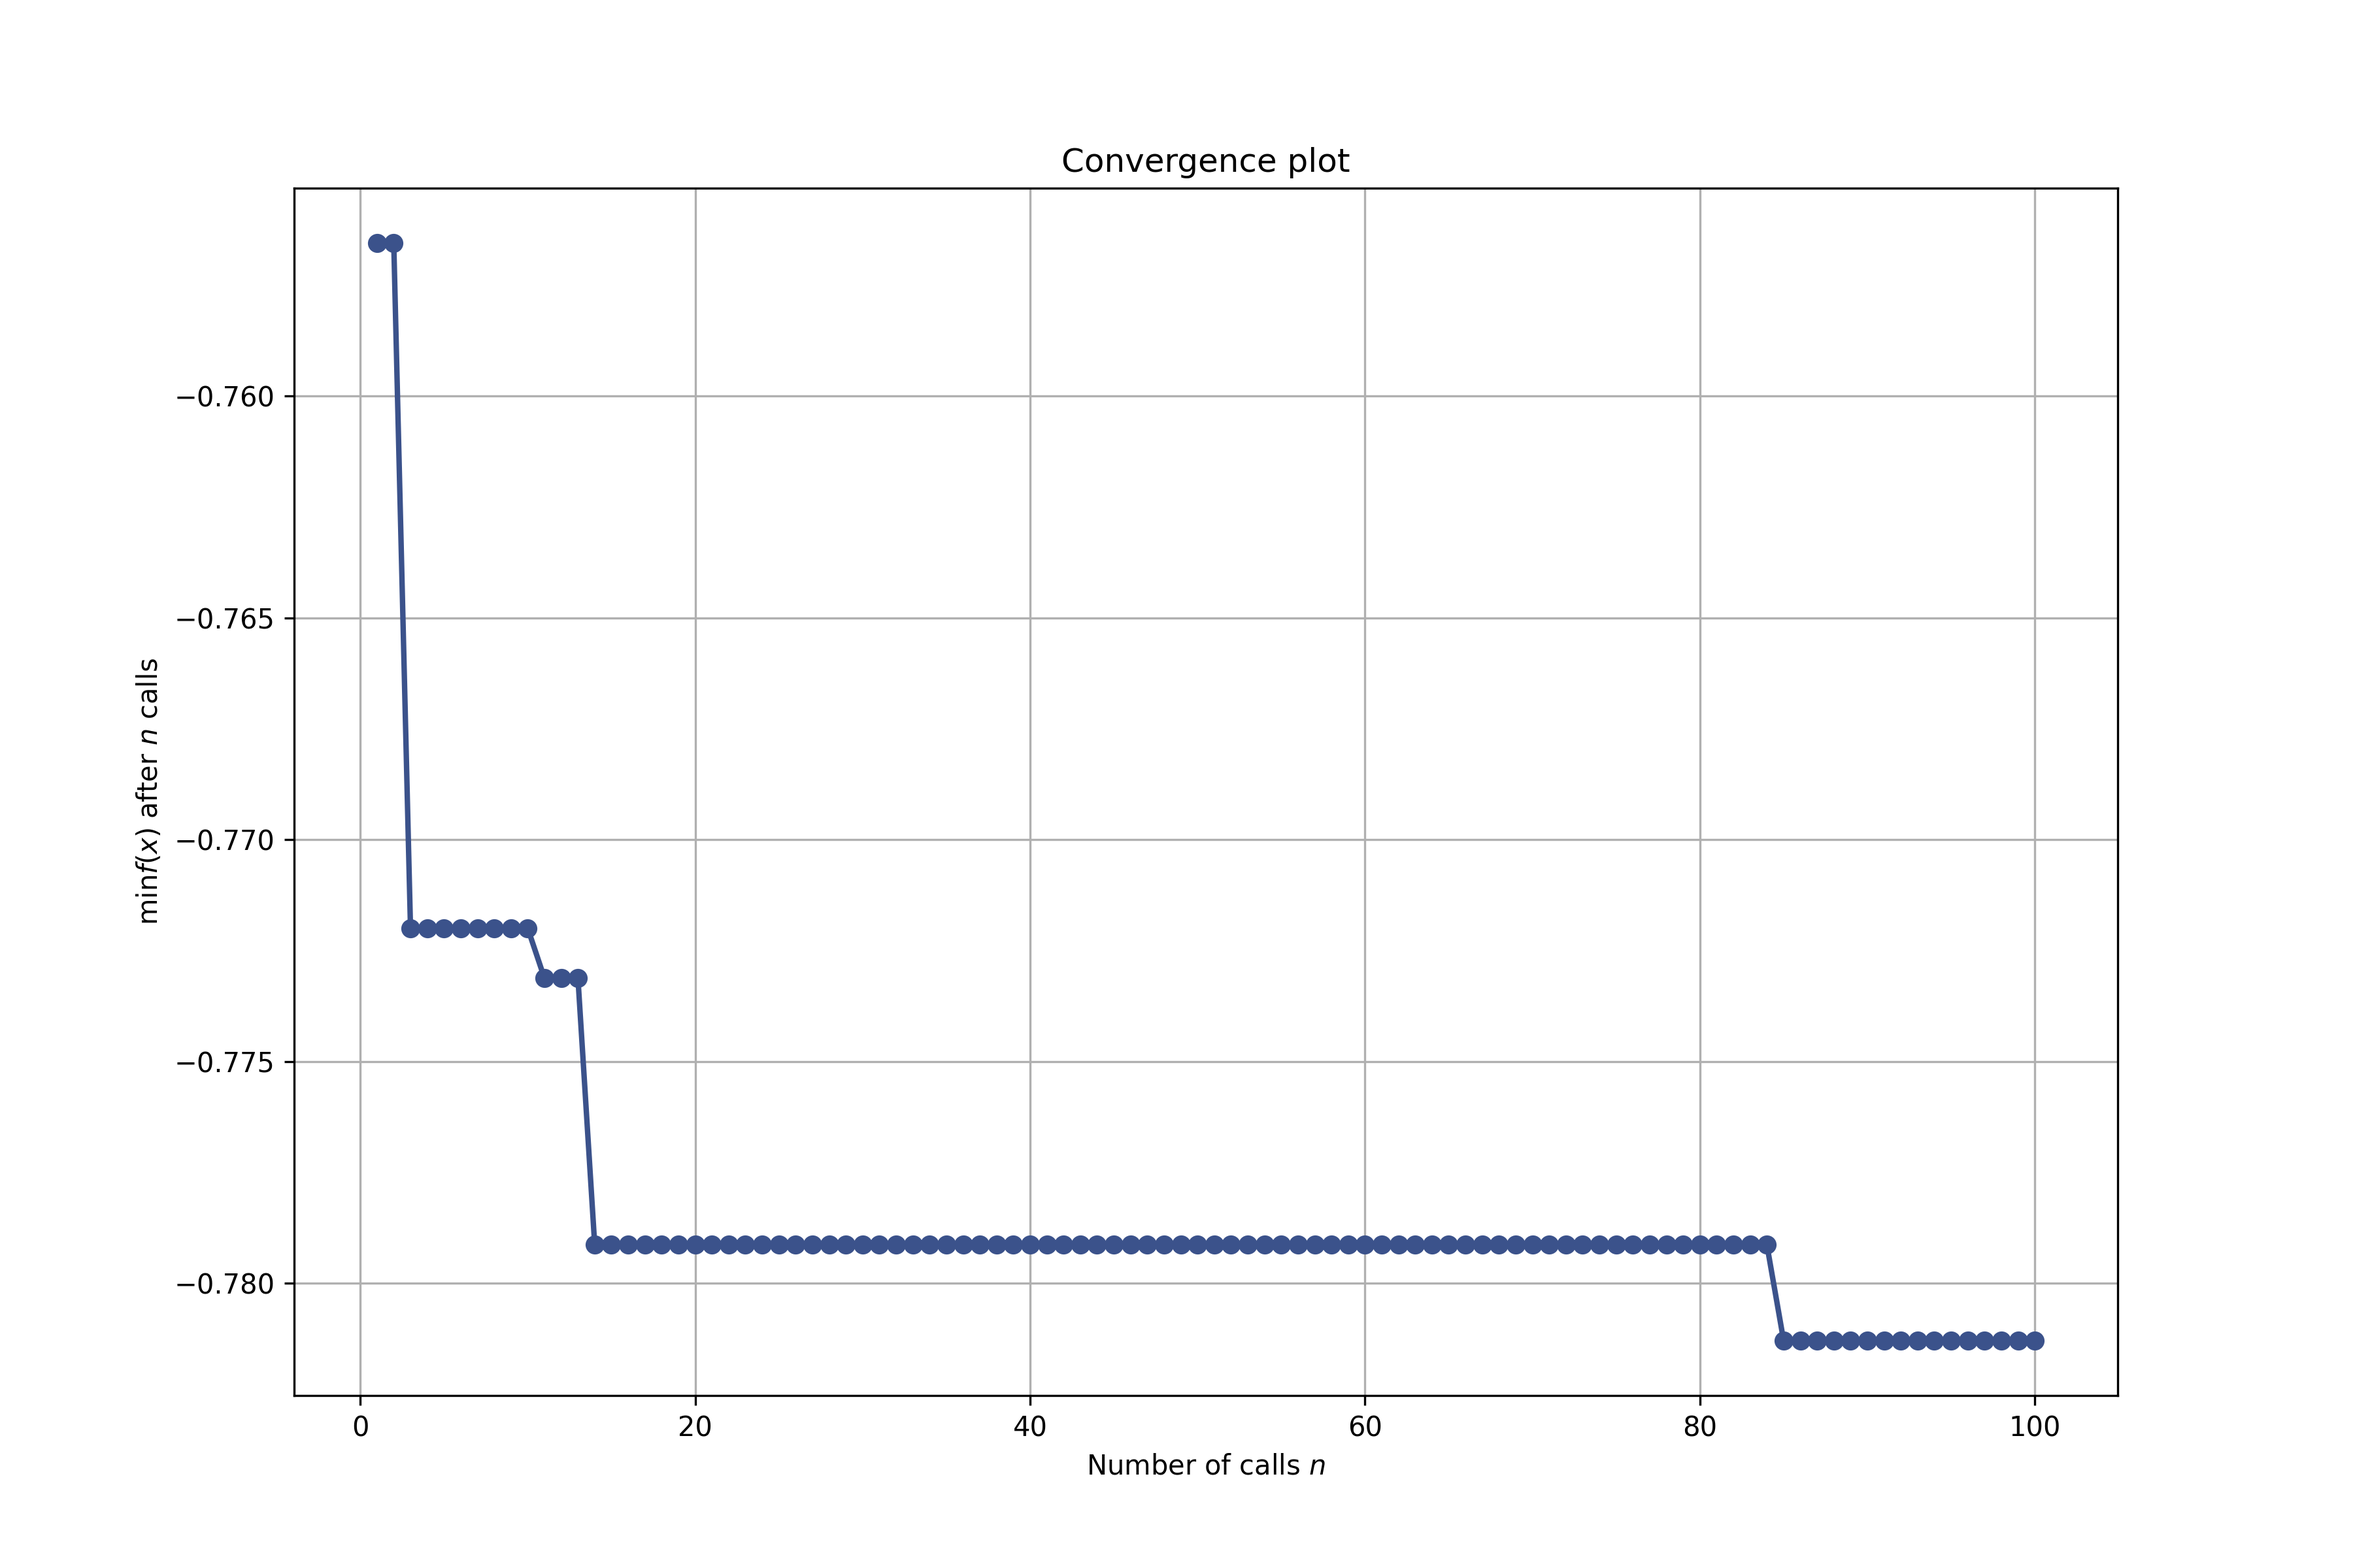
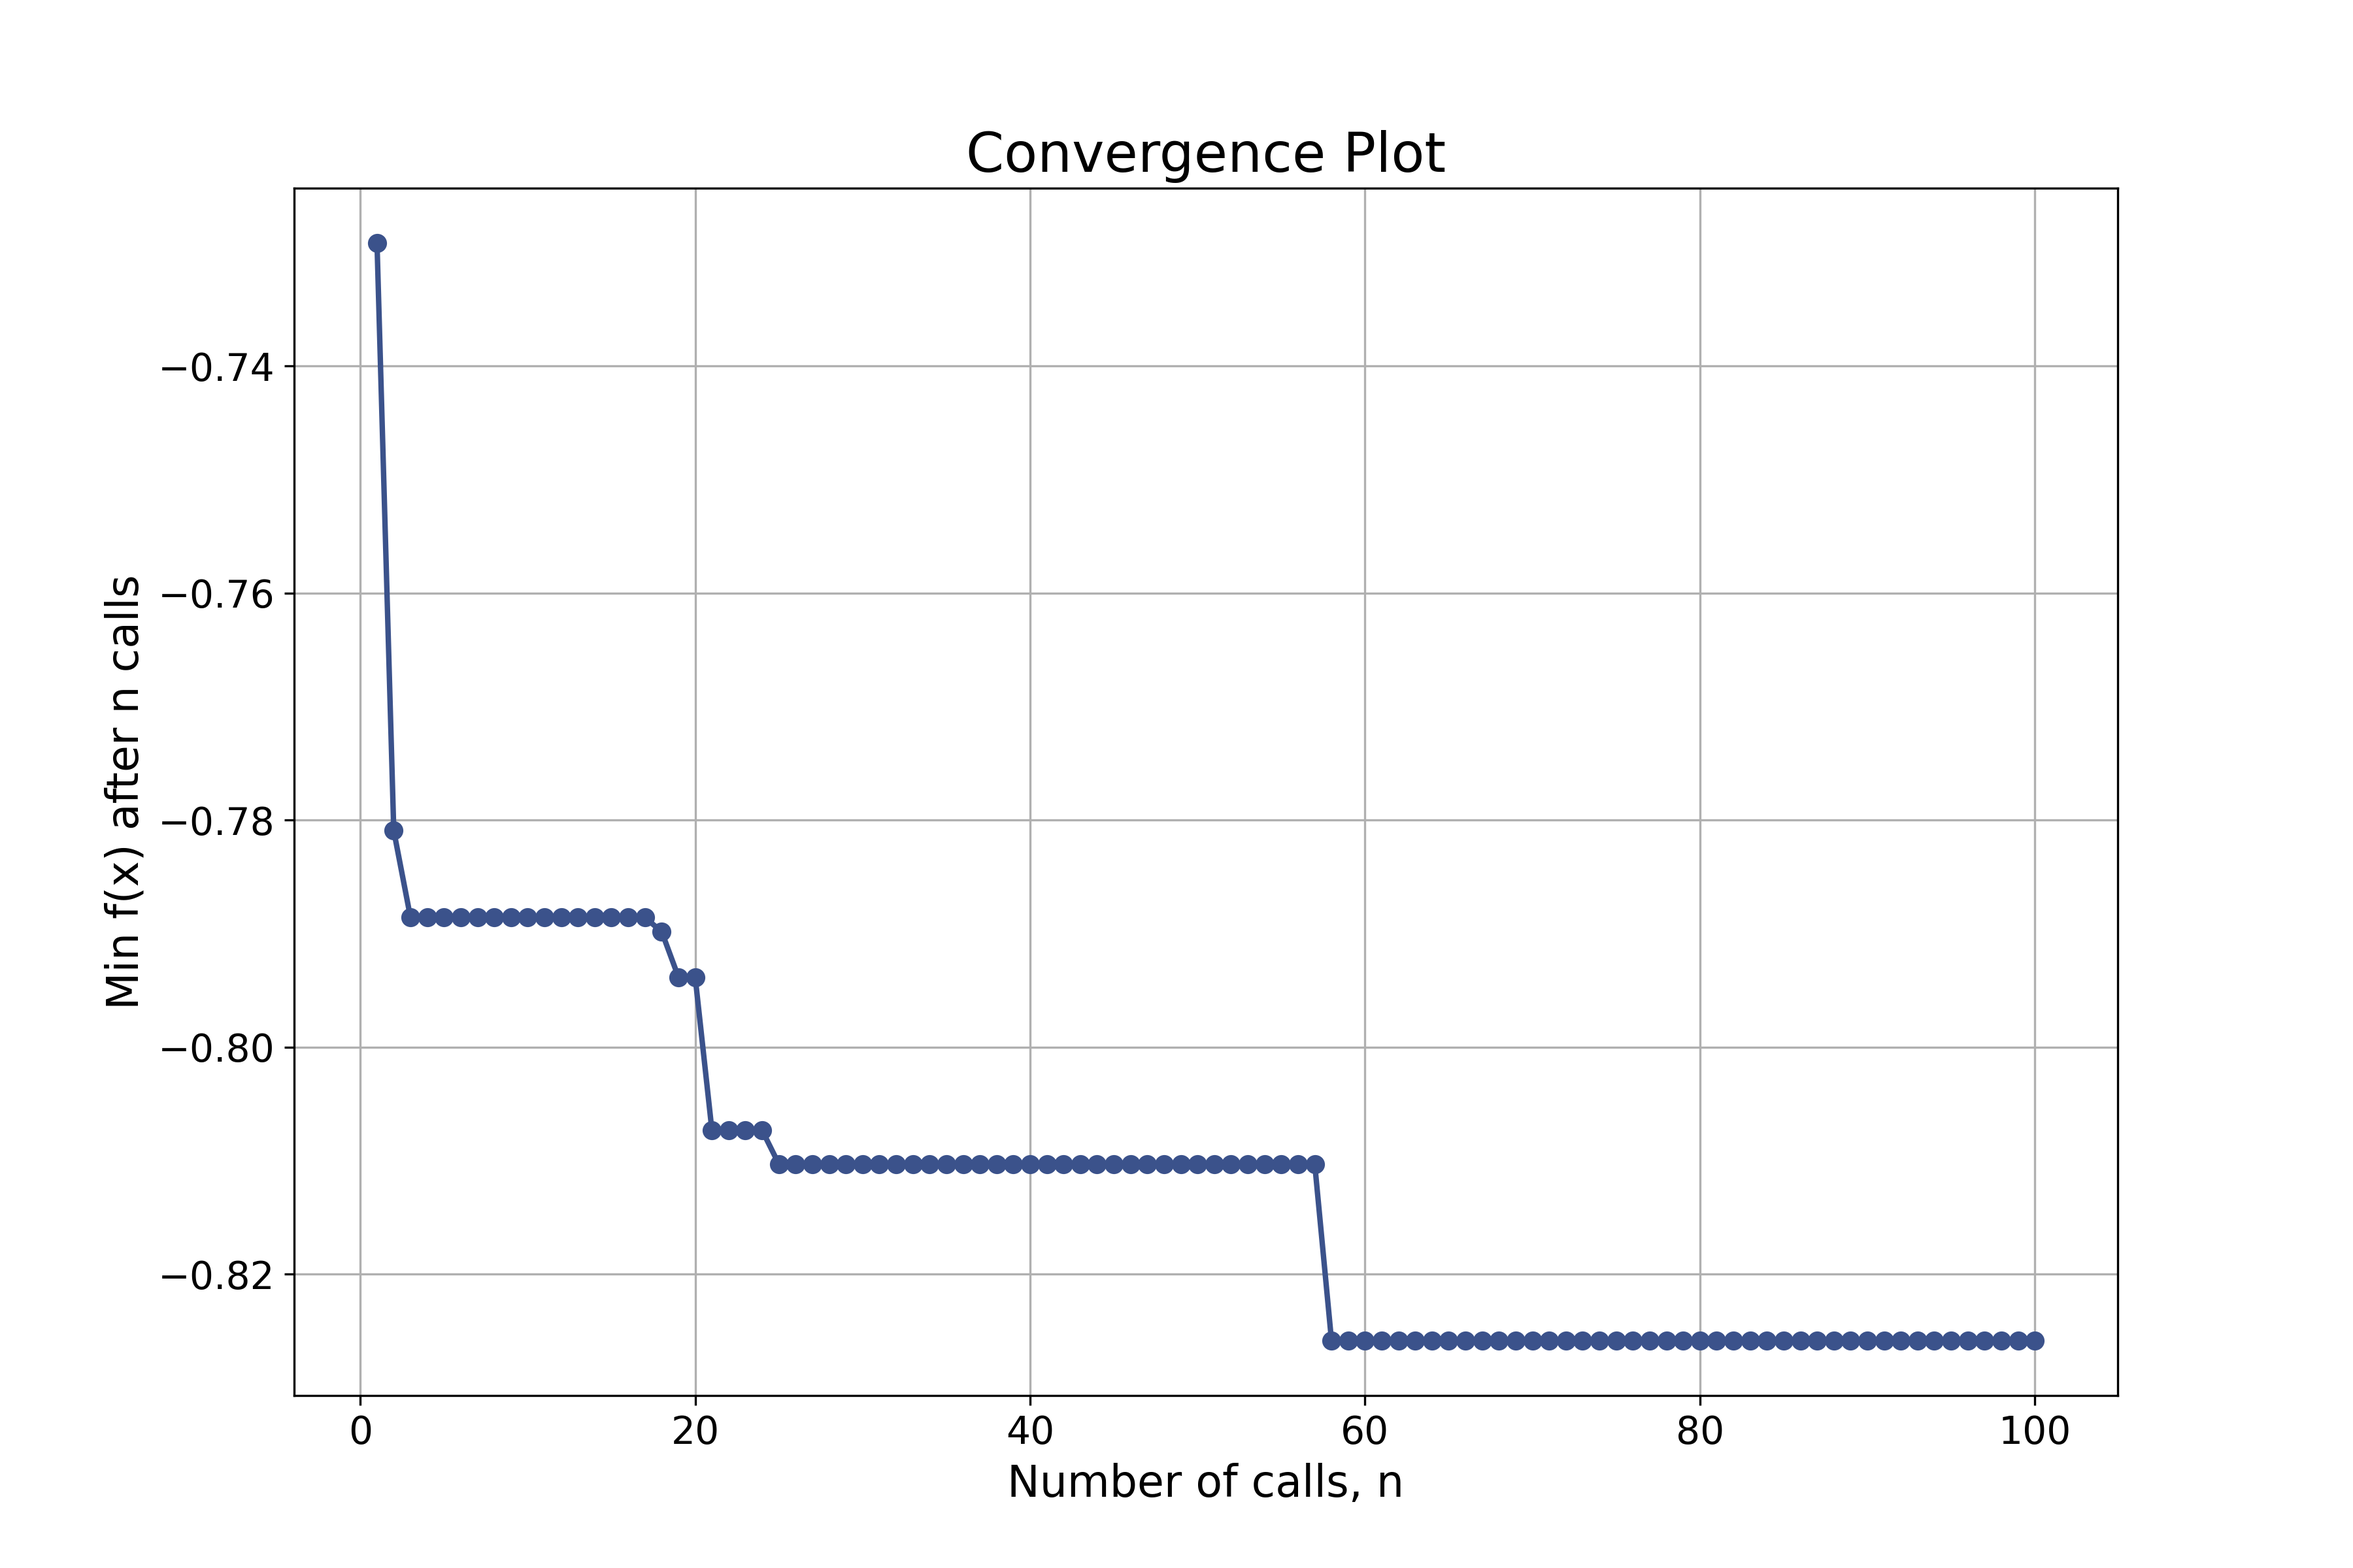
hp convergence plots

diff --git a/pkl_to_plots.py b/pkl_to_plots.py
@@ -2,7 +2,7 @@ import matplotlib.pyplot as plt
 from skopt import load
 from skopt.plots import plot_convergence, plot_objective, plot_evaluations
 
-result = load("hp_optim_results_J3(skip_all).pkl")
+result = load("hp_optim_results_F1.2.pkl")
 
 # Best hyperparameters
 best_hyperparameters = {
@@ -26,45 +26,54 @@ with open('best_hyperparameters.txt', 'w') as f:
 param_names = ["Learning Rate", "Weight Decay", "Gradient Clipping"]
 
 # Create a figure and axes with 1 row and 3 columns for the combined plot
-fig, axs = plt.subplots(1, 3, figsize=(26, 8))
+#fig, axs = plt.subplots(1, 3, figsize=(26, 8))
 
 # Plot Convergence on the first axis
-plot_convergence(result, ax=axs[0])
-axs[0].set_title('Convergence')
+#plot_convergence(result, ax=axs[0])
+#axs[0].set_title('Convergence')
 
 # Plot Objective Function on the second axis
-plot_objective(result, dimensions=param_names, n_points=100, levels=30, size=5, ax=axs[1])
-axs[1].set_title('Objective Function')
+#plot_objective(result, dimensions=param_names, n_points=100, levels=30, size=5, ax=axs[1])
+#axs[1].set_title('Objective Function')
 
 # Plot Evaluations on the third axis
-plot_evaluations(result, dimensions=param_names, size=5, ax=axs[2])
-axs[2].set_title('Evaluations')
+#plot_evaluations(result, dimensions=param_names, size=5, ax=axs[2])
+#axs[2].set_title('Evaluations')
 
 # Adjust layout to remove gaps
-plt.tight_layout()
+#plt.tight_layout()
 
 # Save the combined plot
-plt.savefig('combined_plots.png', dpi=300)
+#plt.savefig('combined_plots.png', dpi=300)
 
 # Close the combined plot to free memory
-plt.close()
+#plt.close()
 
 # Save individual plots as before
 
-# Generate and save convergence plot
 plt.figure(figsize=(12, 8))
 plot_convergence(result)
+plt.xlabel(r"Number of calls, n", fontsize=16)
+plt.ylabel("Min f(x) after n calls", fontsize=16)
+plt.xticks(fontsize=14)
+plt.yticks(fontsize=14)
+plt.title("Convergence Plot", fontsize=20)
 plt.savefig('convergence_plot.png', dpi=300)
 plt.close()
 
-# Generate and save objective function plot
-plt.figure(figsize=(25, 25))
-plot_objective(result, dimensions=param_names, n_points=100, levels=30, size=5)
+plt.figure(figsize=(12, 8))
+plot_objective(
+    result,
+    dimensions=param_names,
+    size=5,
+    n_points=250,
+    levels=30
+)
 plt.savefig('objective_plot.png', dpi=300)
 plt.close()
 
 # Generate and save evaluations plot
-plt.figure(figsize=(25, 25))
-plot_evaluations(result, dimensions=param_names, size=5)
-plt.savefig('evaluations_plot.png', dpi=300)
-plt.close()
+#plt.figure(figsize=(25, 25))
+#plot_evaluations(result, dimensions=param_names, size=5)
+#plt.savefig('evaluations_plot.png', dpi=300)
+#plt.close()
